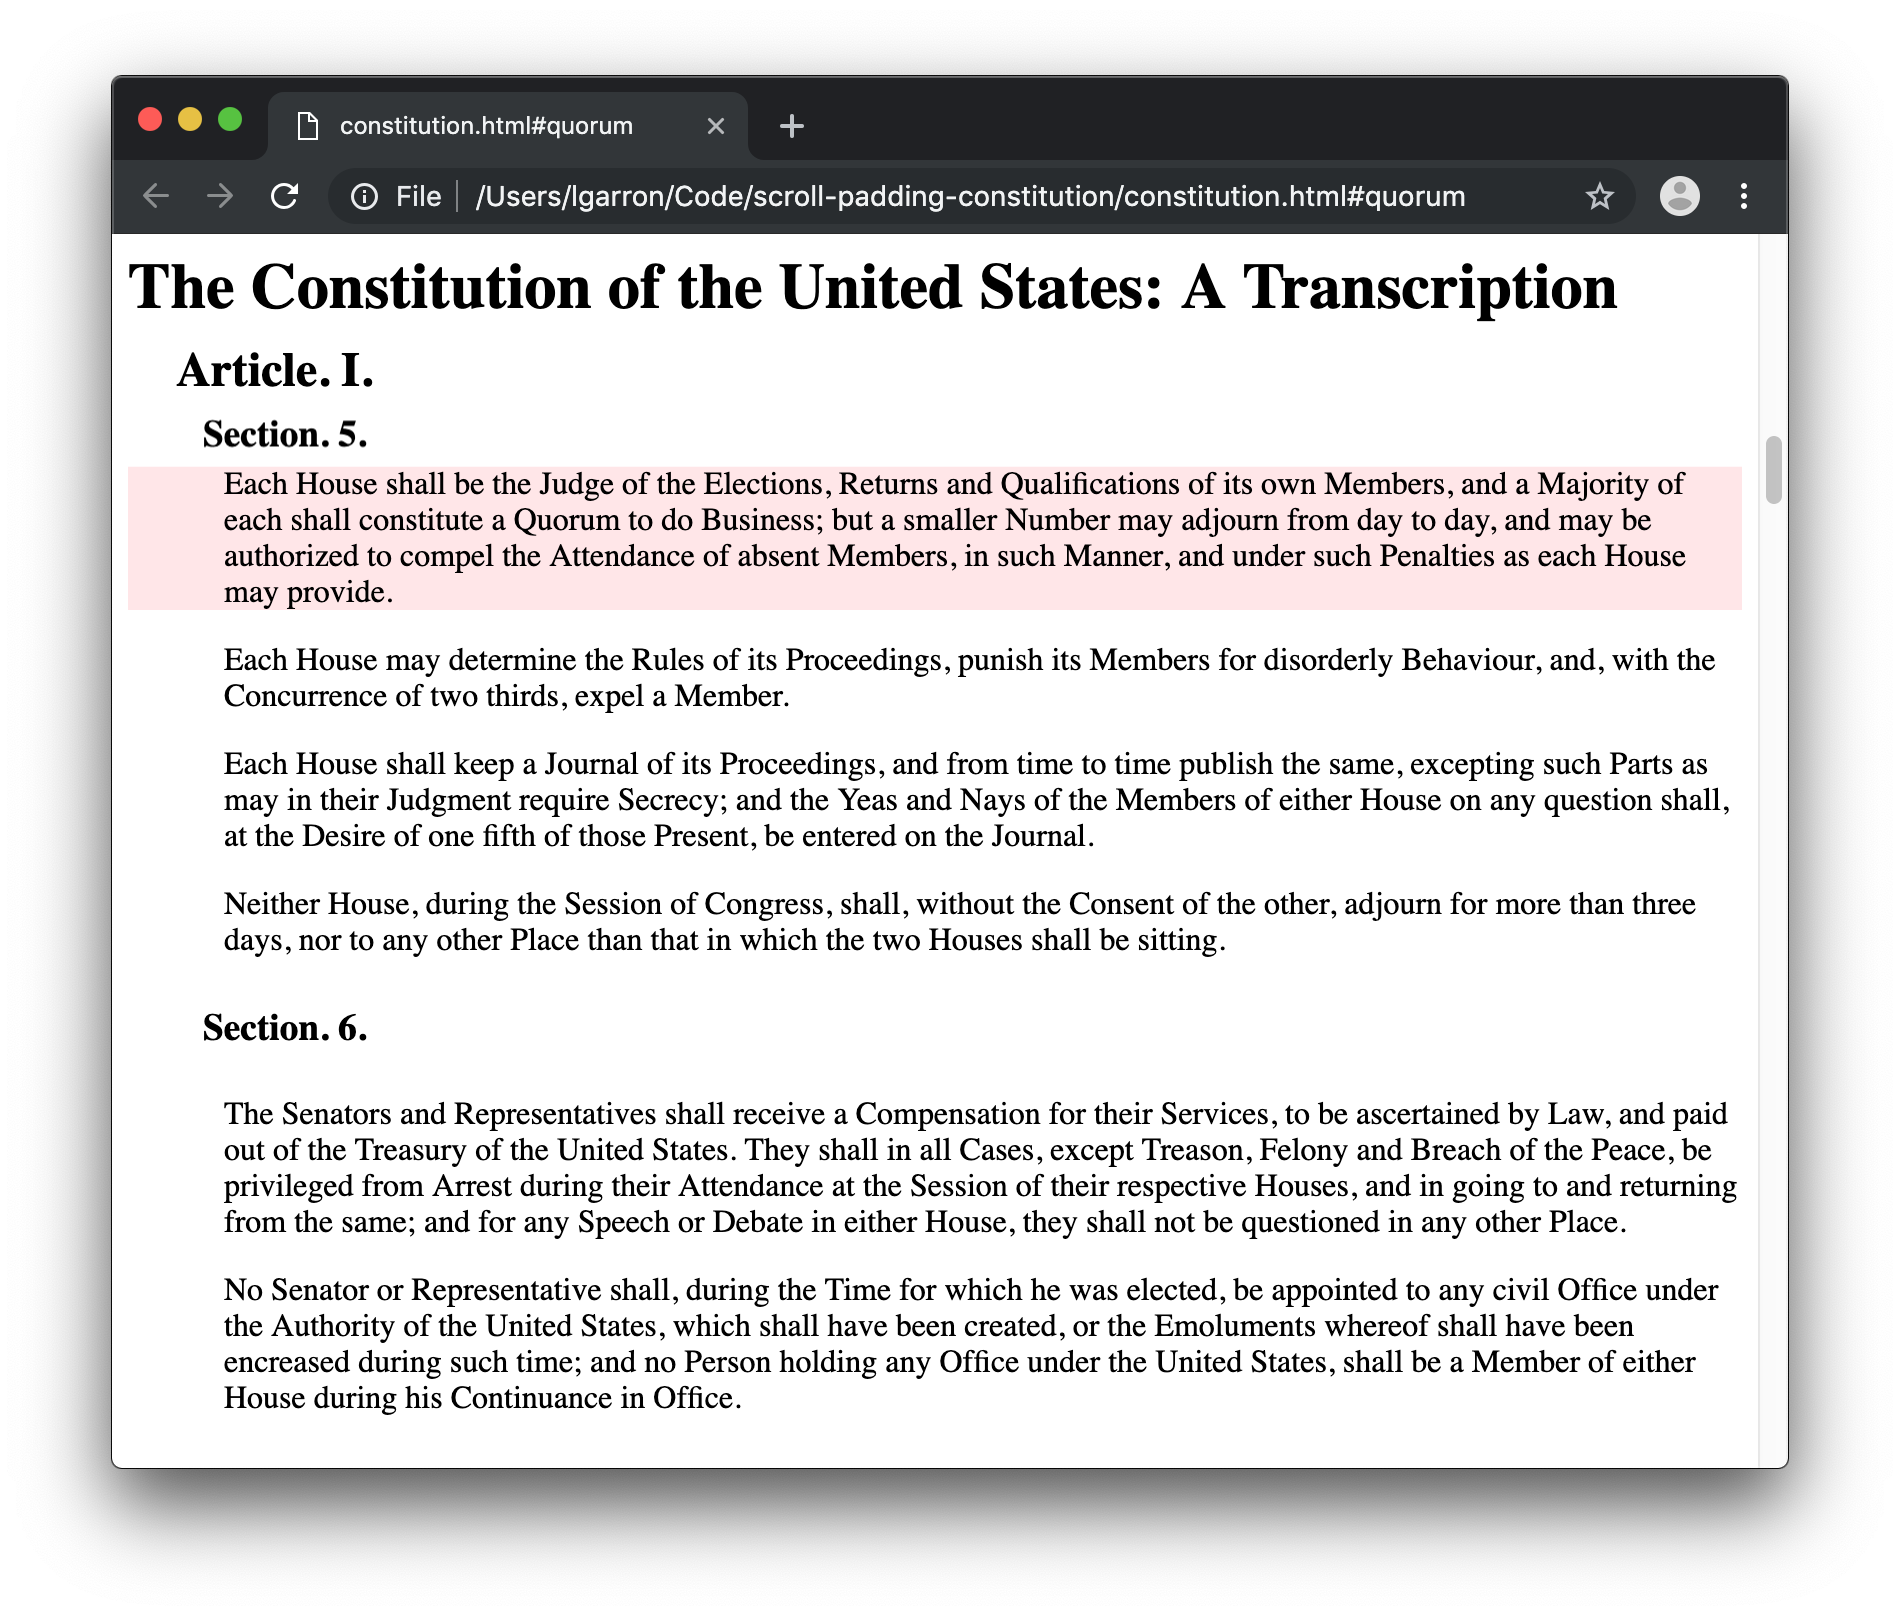
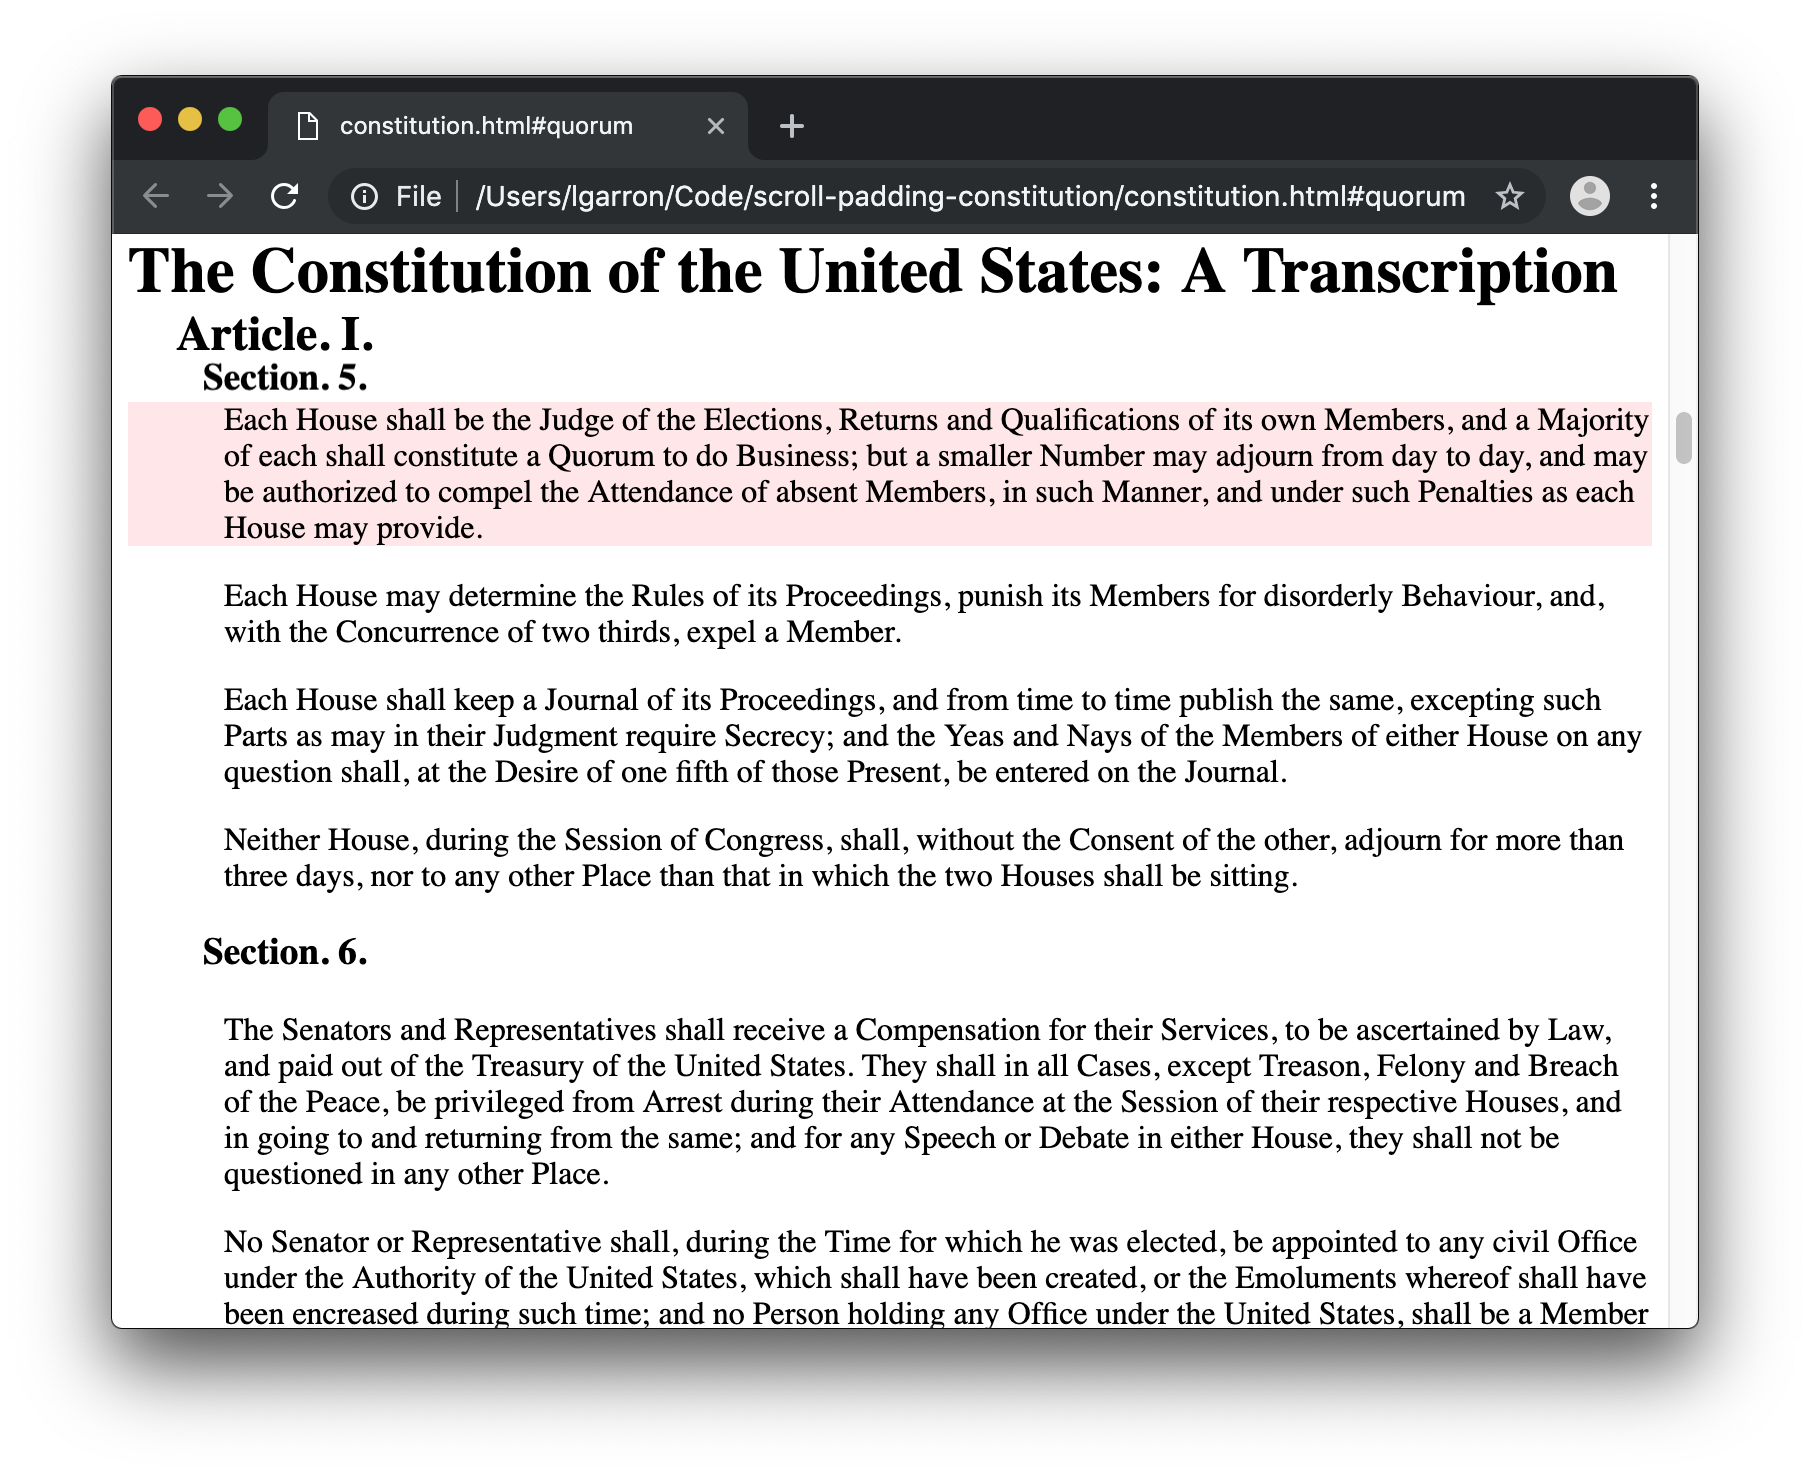
Update padding to make the overlap more clear.

Changed region(s): [[0.0309, 0.0312, 0.9591, 0.935], [0.0928, 0.4675, 0.8972, 0.6545]]

diff --git a/style.css b/style.css
@@ -1,12 +1,10 @@
 body {
-  scroll-padding-top: 7.25em;
+  scroll-padding-top: 5.25em;
 }
 
 h1, h2, h3 {
   position: sticky;
   background: white;
-  padding-top: 0.25em;
-  padding-bottom: 0.25em;
 }
 
 h1 {
@@ -15,12 +13,12 @@ h1 {
 }
 
 h2 {
-  top: 2.0em;
+  top:  1.5em;
   padding-left: 1em;
 }
 
 h3 {
-  top: 4.5em;
+  top: 3.25em;
   padding-left: 2em;
 }
 

diff --git a/README.md b/README.md
@@ -11,7 +11,7 @@ The following are goals of the CSS on the page:
 
 `scroll-padding-top` appears to solve the first two, but the need for a fixed padding value prevents the third from working. For example, the title is cut off after "the" in the following screenshot, and extends under other elements to cover some of the anchor-linked text.
 
-![Narrow window with title overlapping](narrow-with-title-overlapping.png)
+![Narrow window with title overlapping headings](narrow-with-title-overlapping-headings.png)
 
 # Acknowledgments
 
